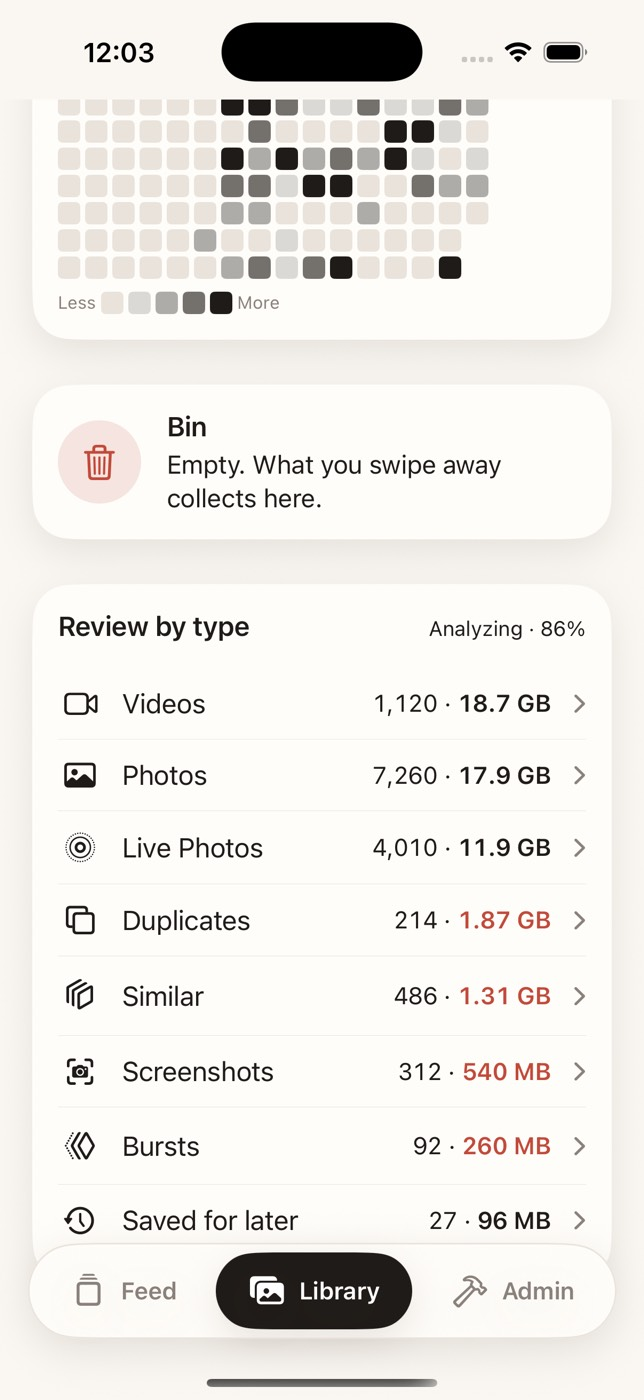
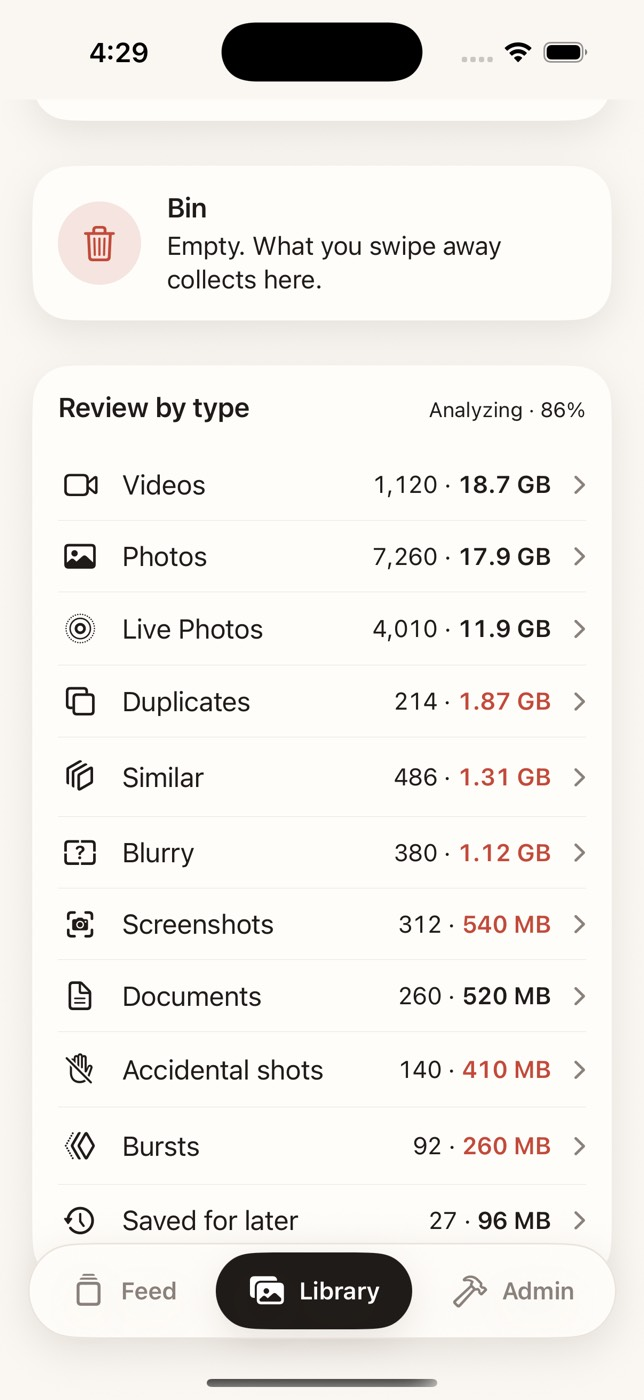
feat(library): accidental, blurry and document rows in Review by type [JUN-9]

diff --git a/photo-swiper/photo-swiper/Services/Dashboard/LibraryScan.swift b/photo-swiper/photo-swiper/Services/Dashboard/LibraryScan.swift
@@ -1,7 +1,8 @@
 import Foundation
 
 /// What's left to look at in the library, for the dashboard's rows: what's left to clear by kind, plus
-/// all videos, Live Photos, plain photos and what was saved for later.
+/// all videos, Live Photos, plain photos, what the image analysis flagged (accidental, blurry, documents)
+/// and what was saved for later.
 ///
 /// Counted from the feature index's cached features and the last page's grouping, never from PhotoKit,
 /// so it's cheap and pure. Items not indexed yet aren't counted, so it's a lower bound while the index
@@ -25,8 +26,8 @@ struct LibraryScan: Equatable, Codable, Sendable {
     /// duplicate set and the shots other than the best of a similar set count: those are what clearing frees,
     /// so the number isn't oversold.
     var buckets: [CleanupCategory: Bucket] = [:]
-    /// The rows that aren't a cleanup category: every undecided video, every undecided Live Photo, and
-    /// everything saved for later, each at full size. These overlap the buckets and each other: a large
+    /// The rows that aren't a cleanup category: every undecided video, every undecided Live Photo, every
+    /// undecided photo the analysis flagged, and everything saved for later, each at full size. These overlap the buckets and each other: a large
     /// video is also a video, and a Live Photo can be a similar shot.
     var focusBuckets: [FocusTarget: Bucket] = [:]
     /// Undecided indexed items and their size.
@@ -75,6 +76,7 @@ struct LibraryScan: Equatable, Codable, Sendable {
             if item.isVideo { members[.allVideos, default: []].append(item.bytes) }
             if livePhotos.contains(id), !item.isVideo { members[.livePhotos, default: []].append(item.bytes) }
             if CleanupCategory.inferred(from: item) == .photo { members[.category(.photo), default: []].append(item.bytes) }
+            for focus in findings(item) { members[focus, default: []].append(item.bytes) }
             guard !grouped.contains(id), let category = suggested(item) else { continue }
             members[.category(category), default: []].append(item.bytes)
         }
@@ -93,6 +95,20 @@ struct LibraryScan: Equatable, Codable, Sendable {
             }
         }
         return scan
+    }
+
+    /// What the image analysis found in a photo: accidental or blurry (never both, as `ImageFlags.classify`
+    /// decides), and whether it's a document. Videos and screenshots have no image signals, so nothing.
+    static func findings(_ item: AssetFeatures) -> [FocusTarget] {
+        guard !item.isVideo, !item.isScreenshot else { return [] }
+        var found: [FocusTarget] = []
+        switch ImageFlags.classify(item).first {
+        case .accidental: found.append(.accidental)
+        case .blurry: found.append(.blurry)
+        default: break
+        }
+        if item.isUtility == true { found.append(.documents) }
+        return found
     }
 
     /// The kind a single item is suggested as, if any: a large video, a screenshot, or a burst shot the

diff --git a/photo-swiper/photo-swiper/Services/Ranking/FeedFocus.swift b/photo-swiper/photo-swiper/Services/Ranking/FeedFocus.swift
@@ -9,6 +9,14 @@ enum FocusTarget: Hashable, Codable, Sendable {
     /// Every video, whatever its size.
     case allVideos
     case livePhotos
+    /// Photos the analysis reads as taken by accident: a pocket or lens-cap shot, a blown-out frame, or
+    /// soft junk (`ImageFlags.isAccidental`).
+    case accidental
+    /// Photos the analysis reads as blurry and not intentionally soft (`ImageFlags.isBlurry`). Never also
+    /// accidental, as the cards flag them.
+    case blurry
+    /// Photos Vision reads as a utility shot: a receipt, a document, code.
+    case documents
     /// Items the user swiped "later", including ones still sitting out their cooldown: the user asked to
     /// see them now. Only shown, never decided by the focus.
     case savedForLater
@@ -17,8 +25,8 @@ enum FocusTarget: Hashable, Codable, Sendable {
     /// kinds, then saved for later. Large videos aren't a row: they're already in Videos, and two video rows
     /// read as a repeat.
     static let listOrder: [FocusTarget] = [
-        .category(.duplicate), .category(.similar), .allVideos, .livePhotos,
-        .category(.screenshot), .category(.burst), .category(.photo), .savedForLater,
+        .category(.duplicate), .category(.similar), .accidental, .blurry, .allVideos, .livePhotos,
+        .category(.screenshot), .category(.burst), .documents, .category(.photo), .savedForLater,
     ]
 
     /// Whether the focus is a set of IDs the feed builder can't tell from features alone, so a page is
@@ -42,7 +50,8 @@ enum FeedFocus {
     /// Duplicate and similar focus keep their groups and only the candidates in them. A large-video,
     /// screenshot or burst focus keeps the candidates the dashboard counts as that kind
     /// (`LibraryScan.suggested`) and no groups, so they show as single cards. All videos keeps every video;
-    /// Live Photos and saved for later keep the candidates in `only`, also as single cards. Nil changes nothing.
+    /// Live Photos and saved for later keep the candidates in `only`, also as single cards. Accidental,
+    /// blurry and documents keep what the analysis flags (`LibraryScan.findings`), as single cards. Nil changes nothing.
     static func apply(_ input: Input, focus: FocusTarget?, only: Set<LibraryItem.ID>? = nil) -> Input {
         guard let focus else { return input }
         switch focus {
@@ -61,6 +70,8 @@ enum FeedFocus {
             return singles(input.candidates.filter { only?.contains($0.id) == true && !$0.features.isVideo })
         case .savedForLater:
             return singles(input.candidates.filter { only?.contains($0.id) == true })
+        case .accidental, .blurry, .documents:
+            return singles(input.candidates.filter { LibraryScan.findings($0.features).contains(focus) })
         }
     }
 

diff --git a/photo-swiper/photo-swiper/Views/Library/FocusTarget+Display.swift b/photo-swiper/photo-swiper/Views/Library/FocusTarget+Display.swift
@@ -10,6 +10,9 @@ extension FocusTarget {
         case .category(let category): category.title
         case .allVideos: "Videos"
         case .livePhotos: "Live Photos"
+        case .accidental: "Accidental shots"
+        case .blurry: "Blurry"
+        case .documents: "Documents"
         case .savedForLater: "Saved for later"
         }
     }
@@ -21,6 +24,9 @@ extension FocusTarget {
         case .category(let category): category.focusTitle
         case .allVideos: "Only videos"
         case .livePhotos: "Only Live Photos"
+        case .accidental: "Only accidental shots"
+        case .blurry: "Only blurry photos"
+        case .documents: "Only documents"
         case .savedForLater: "Saved for later"
         }
     }
@@ -31,6 +37,9 @@ extension FocusTarget {
         case .category(let category): category.title.lowercased()
         case .allVideos: "videos"
         case .livePhotos: "Live Photos"
+        case .accidental: "accidental shots"
+        case .blurry: "blurry photos"
+        case .documents: "documents"
         case .savedForLater: "photos saved for later"
         }
     }
@@ -46,6 +55,9 @@ extension FocusTarget {
         case .category(.photo): "photo"
         case .allVideos: "video"
         case .livePhotos: "livephoto"
+        case .accidental: "hand.raised.slash"
+        case .blurry: "camera.metering.unknown"
+        case .documents: "doc.text"
         case .savedForLater: "clock.arrow.circlepath"
         }
     }
@@ -62,6 +74,9 @@ extension FocusTarget {
         case .category(.photo): one ? "photo" : "photos"
         case .allVideos: one ? "video" : "videos"
         case .livePhotos: one ? "Live Photo" : "Live Photos"
+        case .accidental: one ? "accidental shot" : "accidental shots"
+        case .blurry: one ? "blurry photo" : "blurry photos"
+        case .documents: one ? "document" : "documents"
         case .savedForLater: "saved for later"
         }
         return "\(Format.count(count)) \(noun)"
@@ -73,6 +88,9 @@ extension FocusTarget {
         case .category(let category): category.rawValue
         case .allVideos: "allVideos"
         case .livePhotos: "livePhotos"
+        case .accidental: "accidental"
+        case .blurry: "blurry"
+        case .documents: "documents"
         case .savedForLater: "savedForLater"
         }
     }

diff --git a/photo-swiper/photo-swiperTests/DashboardStatsTests.swift b/photo-swiper/photo-swiperTests/DashboardStatsTests.swift
@@ -239,6 +239,27 @@ struct LibraryScanTests {
                       isInBurst: burst, isBurstPick: pick)
     }
 
+    @Test func analysisFindingsAreRowsAtFullSize() {
+        var pocket = features(bytes: 10)
+        pocket.sharpness = 5
+        pocket.exposure = ExposureStats(mean: 3, darkFraction: 0.97, brightFraction: 0)
+        var soft = features(bytes: 20)
+        soft.sharpness = 12
+        var receipt = features(bytes: 40)
+        receipt.sharpness = 300
+        receipt.isUtility = true
+        var shot = features(bytes: 80, screenshot: true)
+        shot.isUtility = true
+        var favorite = features(bytes: 160, favorite: true)
+        favorite.sharpness = 12
+        let scan = LibraryScan.make(features: ["pocket": pocket, "soft": soft, "receipt": receipt, "shot": shot, "fav": favorite],
+                                    excluding: [], duplicates: [], similar: [], scanPercent: nil)
+        #expect(scan.bucket(for: .accidental) == .init(count: 1, bytes: 10), "Accidental, so not also blurry")
+        #expect(scan.bucket(for: .blurry) == .init(count: 1, bytes: 20), "Favorites left out")
+        #expect(scan.bucket(for: .documents) == .init(count: 1, bytes: 40), "A screenshot isn't a document")
+        #expect(DashboardStats.rows(scan).map(\.focus).contains(.blurry))
+    }
+
     @Test func eachItemCountsOnceInTheFirstBucketItFits() {
         let library: [LibraryItem.ID: AssetFeatures] = [
             "big-video": features(bytes: 80_000_000, video: true),

diff --git a/photo-swiper/photo-swiper/Views/Library/LibraryCard.swift b/photo-swiper/photo-swiper/Views/Library/LibraryCard.swift
@@ -85,7 +85,7 @@ struct LibraryCard: View {
 }
 
 /// Icon, title, "count · size", chevron. The size is brick for what clearing would free (the cleanup
-/// categories) and ink for the library's own kinds and what's saved for later, which aren't amounts to clear.
+/// categories, accidental and blurry shots) and ink for the library's own kinds and what's saved for later, which aren't amounts to clear.
 private struct LibraryRow: View {
     let row: DashboardSnapshot.Row
 
@@ -93,7 +93,11 @@ private struct LibraryRow: View {
     @Environment(\.dynamicTypeSize) private var typeSize
 
     private var isToClear: Bool {
-        if case .category(let category) = row.focus { category != .photo } else { false }
+        switch row.focus {
+        case .category(let category): category != .photo
+        case .accidental, .blurry: true
+        default: false
+        }
     }
 
     var body: some View {

diff --git a/photo-swiper/photo-swiper/Services/Mock/MockFeedBuilder.swift b/photo-swiper/photo-swiper/Services/Mock/MockFeedBuilder.swift
@@ -38,6 +38,9 @@ struct MockFeedBuilder: FeedBuilding {
         focusBuckets: [
             .allVideos: .init(count: 1_120, bytes: 18_700_000_000),
             .livePhotos: .init(count: 4_010, bytes: 11_900_000_000),
+            .accidental: .init(count: 140, bytes: 410_000_000),
+            .blurry: .init(count: 380, bytes: 1_120_000_000),
+            .documents: .init(count: 260, bytes: 520_000_000),
             .savedForLater: .init(count: 27, bytes: 96_000_000),
         ],
         indexedCount: 17_820, indexedBytes: 64_000_000_000, scanPercent: 86

diff --git a/photo-swiper/photo-swiper/Models/CleanupCategory.swift b/photo-swiper/photo-swiper/Models/CleanupCategory.swift
@@ -55,6 +55,9 @@ extension FeedCard {
         case (.allVideos, .video): true
         case (.livePhotos, .photo(let item)), (.savedForLater, .photo(let item)), (.savedForLater, .video(let item)):
             only?.contains(item.id) == true
+        case (.accidental, .photo(let item)): item.reviewFlag == .accidental
+        case (.blurry, .photo(let item)): item.reviewFlag == .blurry
+        case (.documents, .photo(let item)): item.features?.isUtility == true
         default: false
         }
     }

diff --git a/ARCHITECTURE.md b/ARCHITECTURE.md
@@ -72,7 +72,7 @@ Shared helpers: ThumbnailPipeline.shared (PHCachingImageManager), DevMode.shared
 6. **Delete.** Delete decisions form the **pile**. The only delete path is `PendingPileView`: its in-app alert, then `vm.deleteNow`, then `PhotoKitLibrary.delete` (`PHAssetChangeRequest.deleteAssets`), which shows iOS's own confirmation. `DeletionOutcome.make` sorts the request into missing, undeletable and deletable before the prompt. Afterwards items are settled as `deleted` or `undeletable`; missing ones are settled as `gone` **only under full access**. Just before settling, `deleteNow` records the deleted items in the cleanup history (`ProgressStoring.recordCleanup`), one entry per category, using the category saved with each decision (`StoredDecision.category`, from the card it was made on). Mock items are never recorded.
    Admin Tools' mock cards (debug builds, ids starting `admin-`, `LibraryItem.isAdminMock`) join the pile in memory only and count toward the free pile limit, but never cost a swipe. `saveProgress`, `settle` and `delete` each drop mock ids, so no mock decision reaches `ItemProgress` and no mock item reaches `library.delete`. Deleting them from the pile just drops them and counts their bytes as freed, so the post-delete offer can show; a mocks-only delete isn't counted toward the review prompt and keeps undo. "Remove mock cards" and the next launch clear them. Mock cards themselves still sit in the saved deck (`SessionProgress`) until the next launch strips them in `restore`, and a refill's `FrontLoad` can reorder queued mock cards behind the current one.
 7. **External changes and restore.** `vanishedItems()` reports removed IDs while the app runs, and on launch `missing(from:)` checks the saved deck and pile. Under full access those items are settled as `gone` and removed from the index. Under limited access they may just be outside the selection, so they're only hidden (`outOfReachIDs`) and stay pending in the store. Either way they leave upcoming cards.
-8. **Dashboard.** The Library tab shows `DashboardController`'s snapshot in three parts: the hero (space cleared from the history, this week against last, and photos reviewed per day), the bin (the pile, from the view model), and the library card (a list of what's worth a look). The hero also shows the share reviewed, from the view model. Reviews per day come from the decisions' own dates (`ProgressStoring.reviewsByDay`: keep and delete by `decidedAt`), so there's no separate counter. The rest comes from `FeedBuilding.libraryScan` (the index's cached features and the last page's groups, with no asset loading): what's left to clear by kind (duplicates and similar count only their extras), plus every undecided video, every undecided Live Photo (`AssetCatalog.livePhotoIDs`, one subtype fetch, cached per index generation), every undecided plain photo (as `CleanupCategory.inferred` reads it, the same test a photo focus uses) and what's saved for later, at full size. `DashboardStats` turns it into rows (every kind but large videos, which Videos already covers), biggest first with saved for later last, and the snapshot is cached as JSON in Caches; fields from older builds are ignored when it's read back. It refreshes when the tab shows and the snapshot is over 10 minutes old or something was decided since, on pull to refresh, and after each delete; refreshes coalesce, so one asked for mid-run runs again rather than reusing older numbers. On the main actor it reads only the history, the review days, the saved-for-later IDs (a narrow fetch until the store's mirror is loaded) and, once on the first V2 launch, the deleted rows it fills the history from; what to leave out comes from the view model's memory plus the builder's last page, never from every saved decision. The scan runs on the builder actor and the sums in a detached task.
+8. **Dashboard.** The Library tab shows `DashboardController`'s snapshot in three parts: the hero (space cleared from the history, this week against last, and photos reviewed per day), the bin (the pile, from the view model), and the library card (a list of what's worth a look). The hero also shows the share reviewed, from the view model. Reviews per day come from the decisions' own dates (`ProgressStoring.reviewsByDay`: keep and delete by `decidedAt`), so there's no separate counter. The rest comes from `FeedBuilding.libraryScan` (the index's cached features and the last page's groups, with no asset loading): what's left to clear by kind (duplicates and similar count only their extras), plus every undecided video, every undecided Live Photo (`AssetCatalog.livePhotoIDs`, one subtype fetch, cached per index generation), every undecided plain photo (as `CleanupCategory.inferred` reads it, the same test a photo focus uses), every undecided photo the analysis flags as accidental, blurry or a document (`LibraryScan.findings`, the same test those focuses use) and what's saved for later, at full size. `DashboardStats` turns it into rows (every kind but large videos, which Videos already covers), biggest first with saved for later last, and the snapshot is cached as JSON in Caches; fields from older builds are ignored when it's read back. It refreshes when the tab shows and the snapshot is over 10 minutes old or something was decided since, on pull to refresh, and after each delete; refreshes coalesce, so one asked for mid-run runs again rather than reusing older numbers. On the main actor it reads only the history, the review days, the saved-for-later IDs (a narrow fetch until the store's mirror is loaded) and, once on the first V2 launch, the deleted rows it fills the history from; what to leave out comes from the view model's memory plus the builder's last page, never from every saved decision. The scan runs on the builder actor and the sums in a detached task.
 
 ## Persistence
 

diff --git a/DESIGN.md b/DESIGN.md
@@ -152,7 +152,7 @@ Three parts, top to bottom, and nothing else: the hero, the bin, the library car
 
 - **Hero** (`HeroSection`), one `DashboardCard`. Space cleared as the brick serif 48 number, with no label over it. Under it, this week against last (`Format.weeklyChange`): brick when more was cleared, ink when less, since brick only means space freed and a drop isn't that (not `secondary`: it's essential small text); hidden when neither week cleared anything. The first time the tab is seen each launch, the number counts up from zero (`DS.Motion.countUpDuration` in `countUpSteps` numeric-text steps) and the change fades up once it lands; under Reduce Motion, and on later visits, both show at once. Under the change, the share reviewed as one quiet subheadline line in ink, "62% · 11,050 of 17,820 photos reviewed", with no progress bar: it's context for the number, not a second headline, and it fades up with the change. Before anything is cleared it's "Nothing cleared yet" with "Start reviewing", and the reviewed line (once anything is reviewed) leads the content instead. Then the review heatmap.
 - **Bin** (`BinCard`), right under the hero. Under limited access only, "Add more photos" and "Photo access" rows follow it.
-- **Library card** (`LibraryCard`), "Review by type". A plain list, one row per focus with something in it: icon (`DS.LibraryList.iconWidth` column, hidden at accessibility sizes) · title · "count · size" · chevron, with `line` dividers, each row at least `DS.Tap.minimum` tall. Large videos aren't a row: they're already in Videos. Rows are biggest first, ties in `FocusTarget.listOrder`, and Saved for later always last. Tapping a row focuses the feed on it and does nothing else. A size is brick only when it's an amount to clear (duplicates and similar count only their extras, screenshots, bursts); the library's own kinds (videos, Live Photos, photos) and what's saved for later are ink. While the library is still being analyzed the header says "Analyzing · 86%". At accessibility sizes the count and size stack under the title instead of truncating.
+- **Library card** (`LibraryCard`), "Review by type". A plain list, one row per focus with something in it: icon (`DS.LibraryList.iconWidth` column, hidden at accessibility sizes) · title · "count · size" · chevron, with `line` dividers, each row at least `DS.Tap.minimum` tall. The rows cover the library's kinds and what the analysis finds: duplicates, similar, accidental shots, blurry, screenshots, bursts and documents. Large videos aren't a row: they're already in Videos. Rows are biggest first, ties in `FocusTarget.listOrder`, and Saved for later always last. Tapping a row focuses the feed on it and does nothing else. A size is brick only when it's an amount to clear (duplicates and similar count only their extras, accidental shots, blurry, screenshots, bursts); the library's own kinds (videos, Live Photos, documents, photos) and what's saved for later are ink. While the library is still being analyzed the header says "Analyzing · 86%". At accessibility sizes the count and size stack under the title instead of truncating.
 
 ### Charts
 
